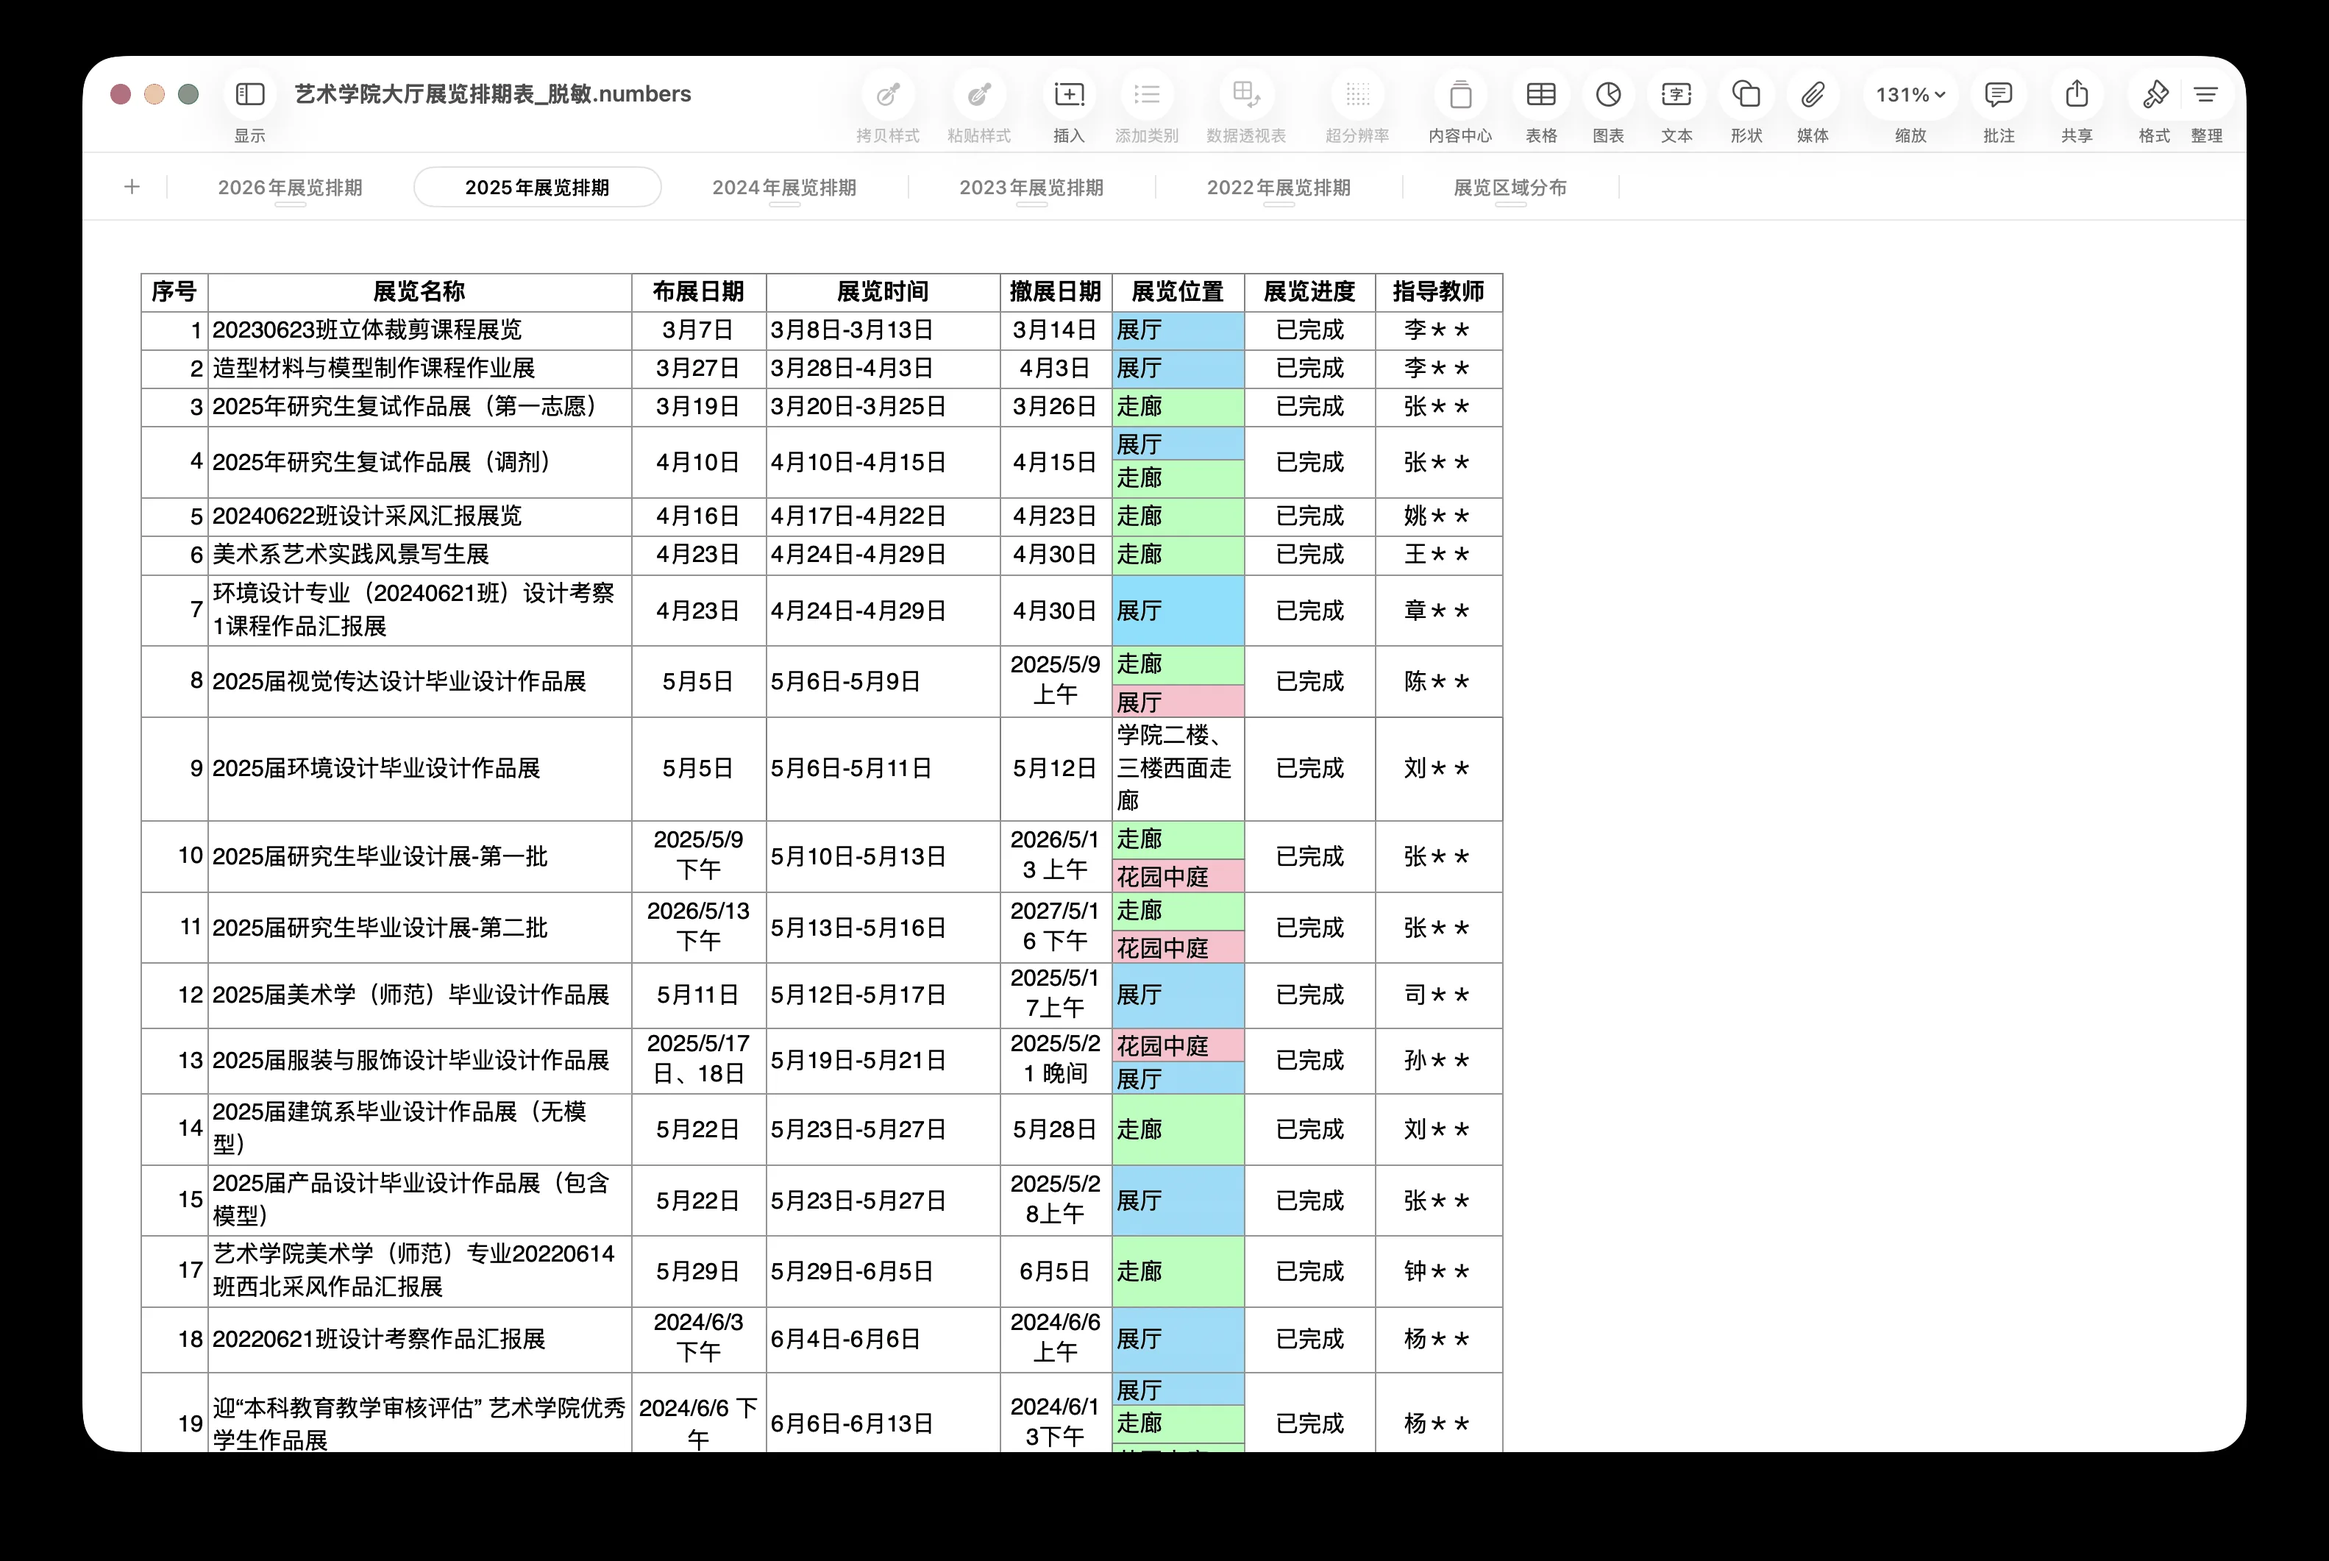
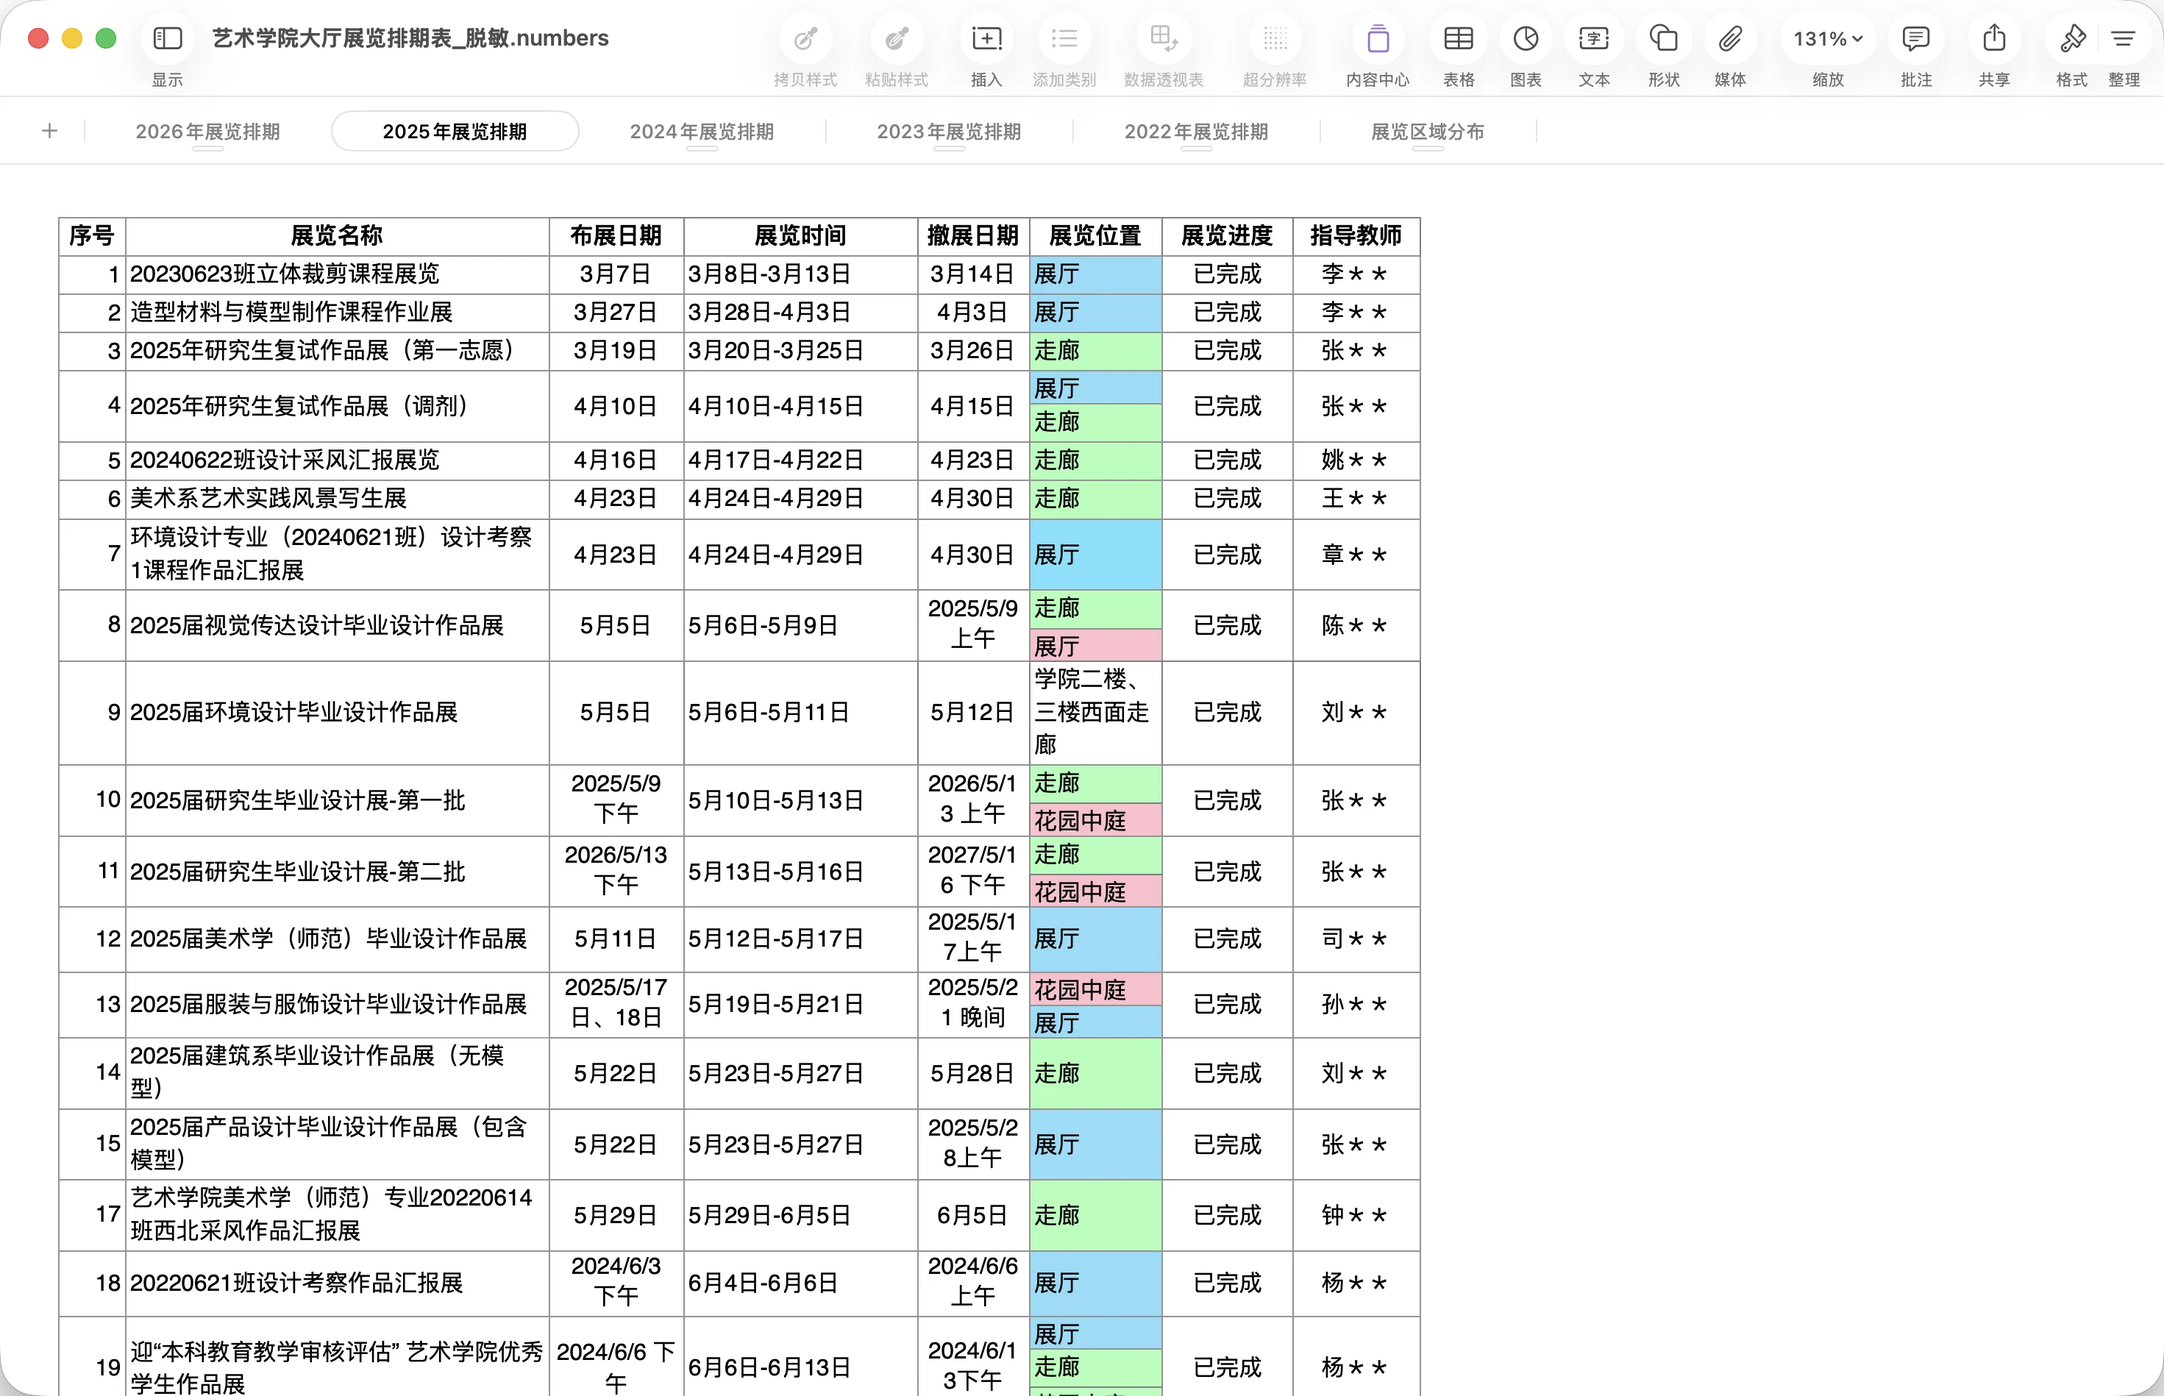
feat: re-screenshot and reduce the former booking spreadsheet img

diff --git a/exhibition-booking_page.html b/exhibition-booking_page.html
@@ -382,7 +382,7 @@ textarea.input { min-height: 90px; resize: vertical; }
           <span style="font-family: var(--font-heading); font-weight: 700; font-size: clamp(36px, 5vw, 58px); line-height: 1.1; letter-spacing: -0.02em; color: var(--color-accent); display: inline-block; vertical-align: -0.08em; margin: 0 2px;">27</span> 场</p>
         <figure style="flex: 1 1 400px; min-width: 0; margin: 0;">
           <button type="button" class="zoom" data-caption="旧流程：手工维护的 Numbers 排期表">
-            <img class="shot" src="images/08-manual-schedule.webp?v=1" data-full="images/08-manual-schedule-full.webp?v=1" width="1012" height="678" loading="lazy" decoding="async" alt="迁到系统之前手工维护的 Numbers 排期表：按年分成 2022 至 2026 五个工作表，逐行记录展览名称、布展日期、展览时间、撤展日期、展览位置与指导教师，位置一栏用蓝绿粉三色标出展厅、走廊与花园中庭。">
+            <img class="shot" src="images/08-manual-schedule.webp?v=2" data-full="images/08-manual-schedule-full.webp?v=2" width="1012" height="653" loading="lazy" decoding="async" alt="迁到系统之前手工维护的 Numbers 排期表：按年分成 2022 至 2026 五个工作表，逐行记录展览名称、布展日期、展览时间、撤展日期、展览位置与指导教师，位置一栏用蓝绿粉三色标出展厅、走廊与花园中庭。">
           </button>
           <figcaption style="font-size: 12px; margin-top: 10px; color: color-mix(in srgb, var(--color-text) 60%, transparent);">原来的手工排期表 · 一年一个工作表</figcaption>
         </figure>
